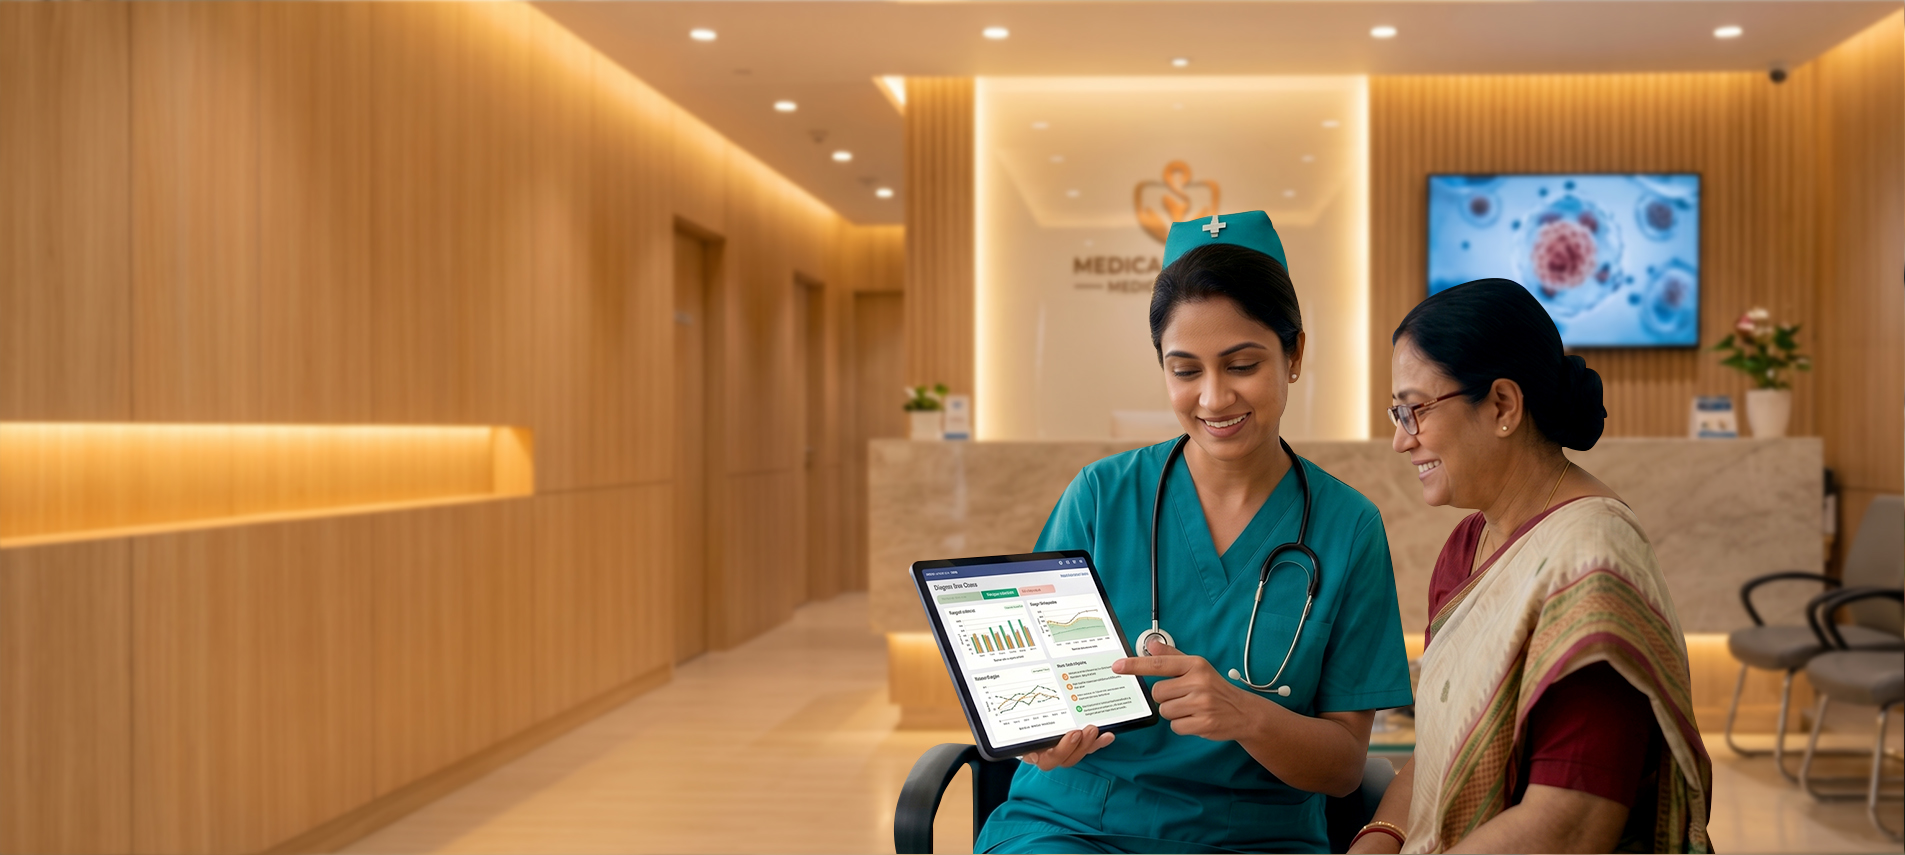
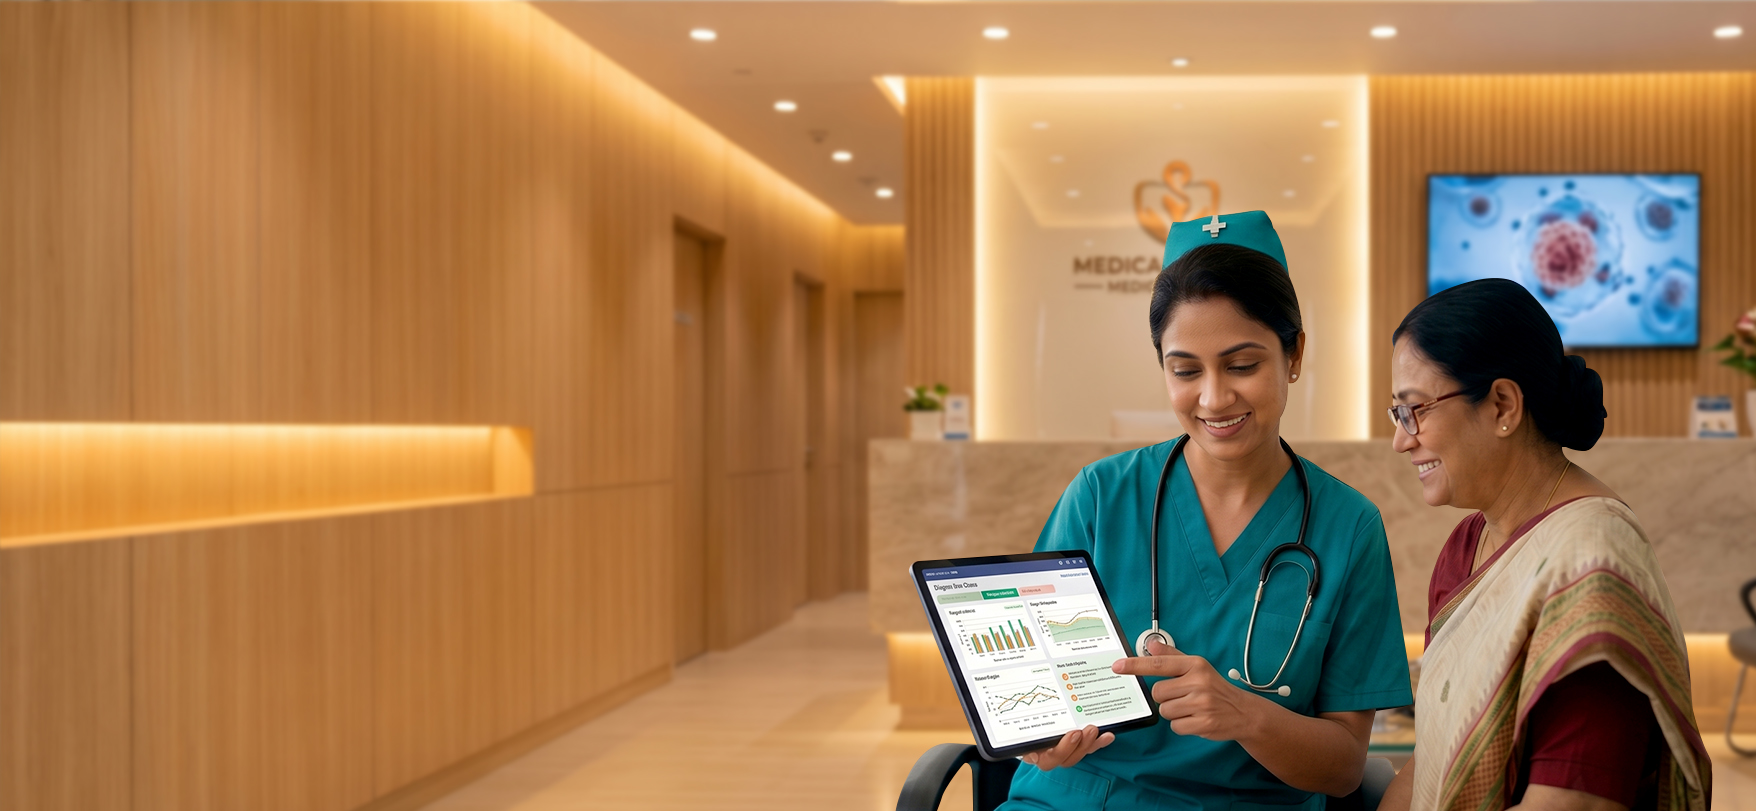
updated moda and images

diff --git a/components/popup-modal.tsx b/components/popup-modal.tsx
@@ -80,7 +80,7 @@ export default function PopupModal() {
   const currentBtnText = language === 'bn' 
     ? (popupData.buttonTextBn || 'বিস্তারিত জানুন') 
     : (popupData.buttonText || 'Learn More');
-  const currentBtnLink = popupData.buttonLink || '/offers';
+  const currentBtnLink = popupData.buttonLink || '/offer';
 
   return (
     <AnimatePresence>
@@ -127,14 +127,7 @@ export default function PopupModal() {
             {/* Right Column: Content Section */}
             <div className="w-full md:w-1/2 p-6 md:p-10 flex flex-col justify-between bg-white overflow-hidden">
               <div className="flex-1 flex flex-col min-h-0">
-                {/* Modern Pill Badge */}
-                <div className="mb-3.5">
-                  <span className="inline-flex items-center gap-1.5 px-3 py-1 rounded-full bg-primary/10 text-primary font-bold text-xs uppercase tracking-wider">
-                    <Sparkles className="w-3.5 h-3.5" />
-                    {language === 'bn' ? 'সর্বশেষ অফার' : 'Latest Update'}
-                  </span>
-                </div>
-
+           
                 {/* Offer Title */}
                 <h2 className="text-xl md:text-2xl lg:text-3xl font-extrabold text-slate-900 leading-tight mb-3 tracking-tight">
                   {currentTitle}
@@ -161,7 +154,7 @@ export default function PopupModal() {
                 </Link>
                 <Link href="/signup" onClick={handleClose} className="inline-block w-full sm:w-1/2">
                   <button
-                    className="flex items-center justify-center gap-2 w-full py-3.5 rounded-xl text-sm font-bold border-2 border-primary/20 text-primary bg-transparent hover:bg-primary/5 hover:border-primary/40 transition-all duration-300"
+                    className="btn-primaryx btn-slidex flex items-center justify-center gap-2 w-full py-3.5 rounded-xl text-sm font-bold shadow-md shadow-primary/10 hover:shadow-primary/20 transition-all duration-300"
                   >
                     {language === 'en' ? 'Sign Up' : 'রেজিস্টার'}
                     <ArrowRight className="w-4 h-4" />

diff --git a/app/api/doctors/route.ts b/app/api/doctors/route.ts
@@ -241,30 +241,10 @@ export async function GET(request: NextRequest) {
       const scored = allDocs.map(doctor => {
         const scoreName = calculateMatchScore(cleanSearch, doctor.name || "");
         const scoreNameBn = calculateMatchScore(cleanSearch, doctor.nameBn || "");
-        const scoreSpecialty = calculateMatchScore(cleanSearch, doctor.specialty || "");
-        const scoreSpecialtyBn = calculateMatchScore(cleanSearch, doctor.specialtyBn || "");
-        const scoreQual = calculateMatchScore(cleanSearch, doctor.qualification || "", true);
-        const scoreQualBn = calculateMatchScore(cleanSearch, doctor.qualificationBn || "", true);
-        const scoreDesignation = calculateMatchScore(cleanSearch, doctor.designation || "", true);
-        const scoreDesignationBn = calculateMatchScore(cleanSearch, doctor.designationBn || "", true);
-        const scoreDept = calculateMatchScore(cleanSearch, doctor.department || "", true);
-        const scoreDeptBn = calculateMatchScore(cleanSearch, doctor.departmentBn || "", true);
-        const scoreHosp = calculateMatchScore(cleanSearch, doctor.hospital || "", true);
-        const scoreHospBn = calculateMatchScore(cleanSearch, doctor.hospitalBn || "", true);
 
         const maxScore = Math.max(
           scoreName,
-          scoreNameBn,
-          scoreSpecialty,
-          scoreSpecialtyBn,
-          scoreQual,
-          scoreQualBn,
-          scoreDesignation,
-          scoreDesignationBn,
-          scoreDept,
-          scoreDeptBn,
-          scoreHosp,
-          scoreHospBn
+          scoreNameBn
         );
 
         return { doctor, maxScore };

diff --git a/app/blog/page.tsx b/app/blog/page.tsx
@@ -84,7 +84,7 @@ export default function HealthTipsPage() {
       {/* Hero Section - 70% of homepage height */}
       <div className="relative px-0">
         <div className=" mx-auto">
-          <div className="h-[650px] rounded-none overflow-hidden">
+          <div className="h-[450px] md:h-[650px] rounded-none overflow-hidden">
             <div className="relative h-full w-full">
               {/* Background Image */}
               <div

diff --git a/components/hero-section.tsx b/components/hero-section.tsx
@@ -101,7 +101,7 @@ export default function HeroSection() {
                   alt={slide.title}
                   fill
                   sizes="100vw"
-                  className="object-cover  object-[95%_center] lg:object-center"
+                  className="object-cover  object-[100%_center] lg:object-center"
                   priority={index === 0}
                 />
                 <div className="absolute inset-0 bg-black/45" />

diff --git a/app/offer/page.tsx b/app/offer/page.tsx
@@ -56,7 +56,7 @@ export default function OfferPage() {
       {/* Hero Section */}
       <div className="relative px-0">
         <div className=" mx-auto">
-          <div className="h-[650px] rounded-none overflow-hidden">
+          <div className="h-[450px] md:h-[650px] rounded-none overflow-hidden">
             <div className="relative h-full w-full">
               {/* Background Image */}
               <div
